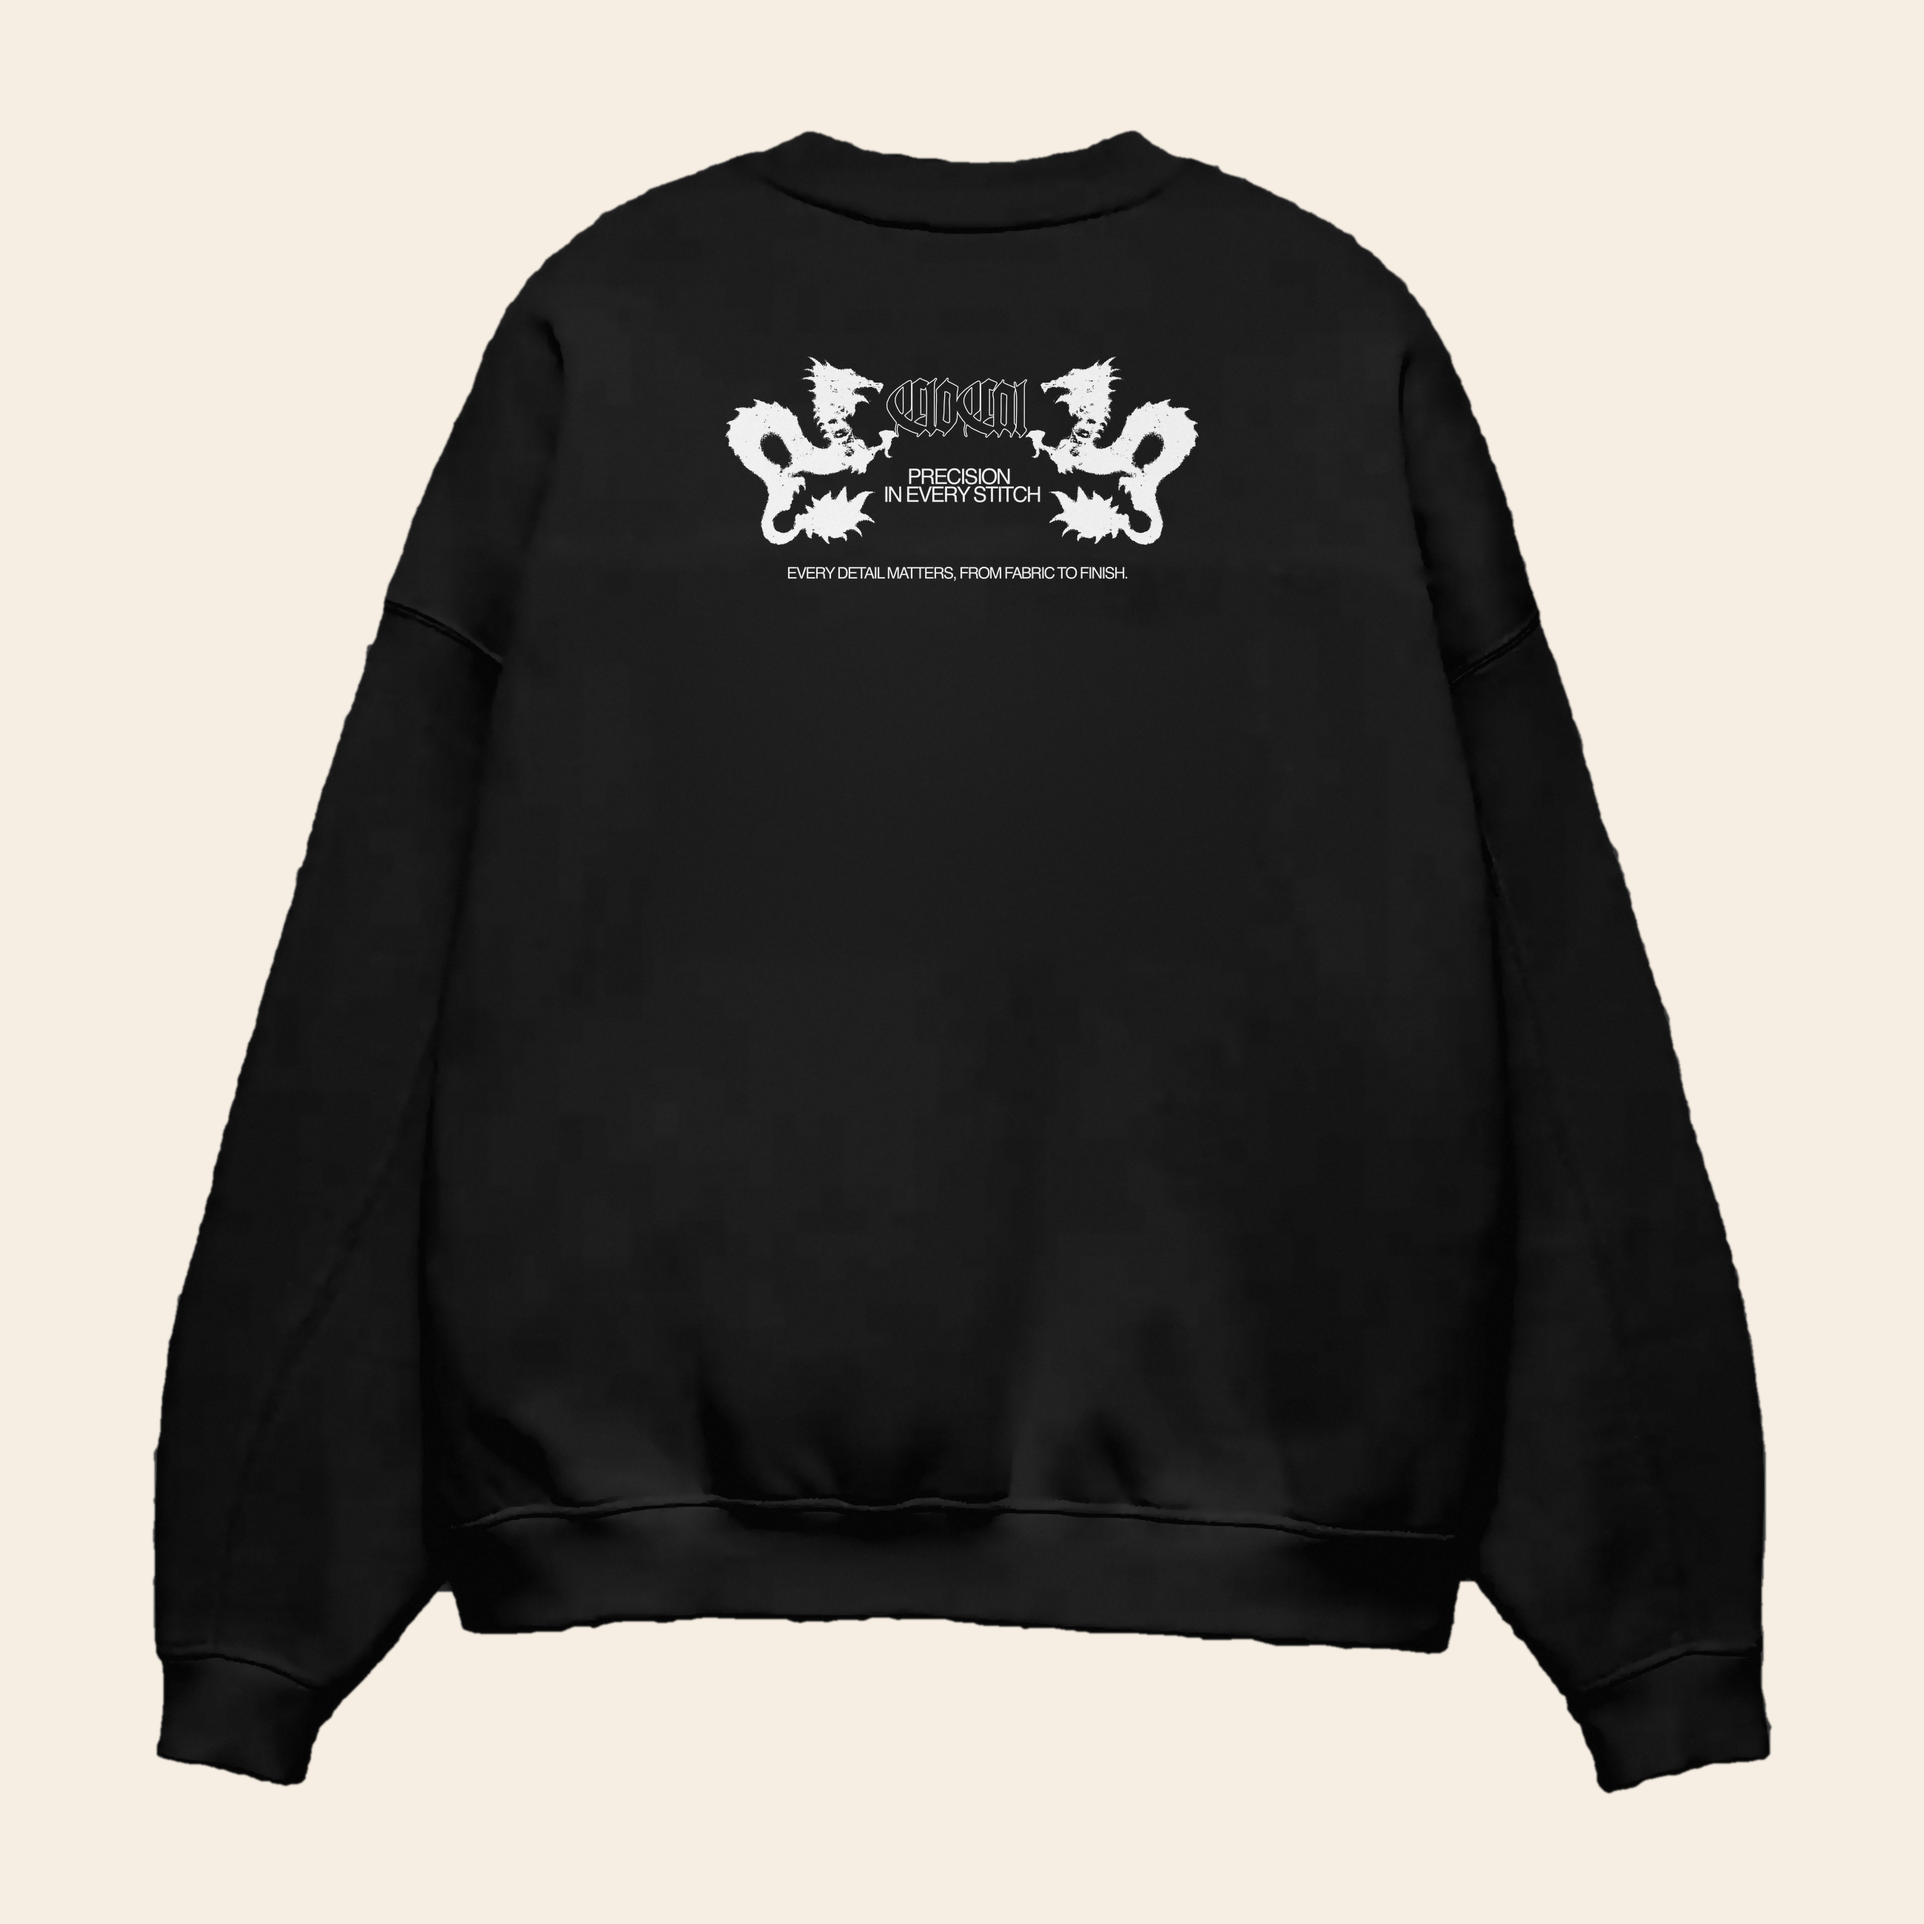
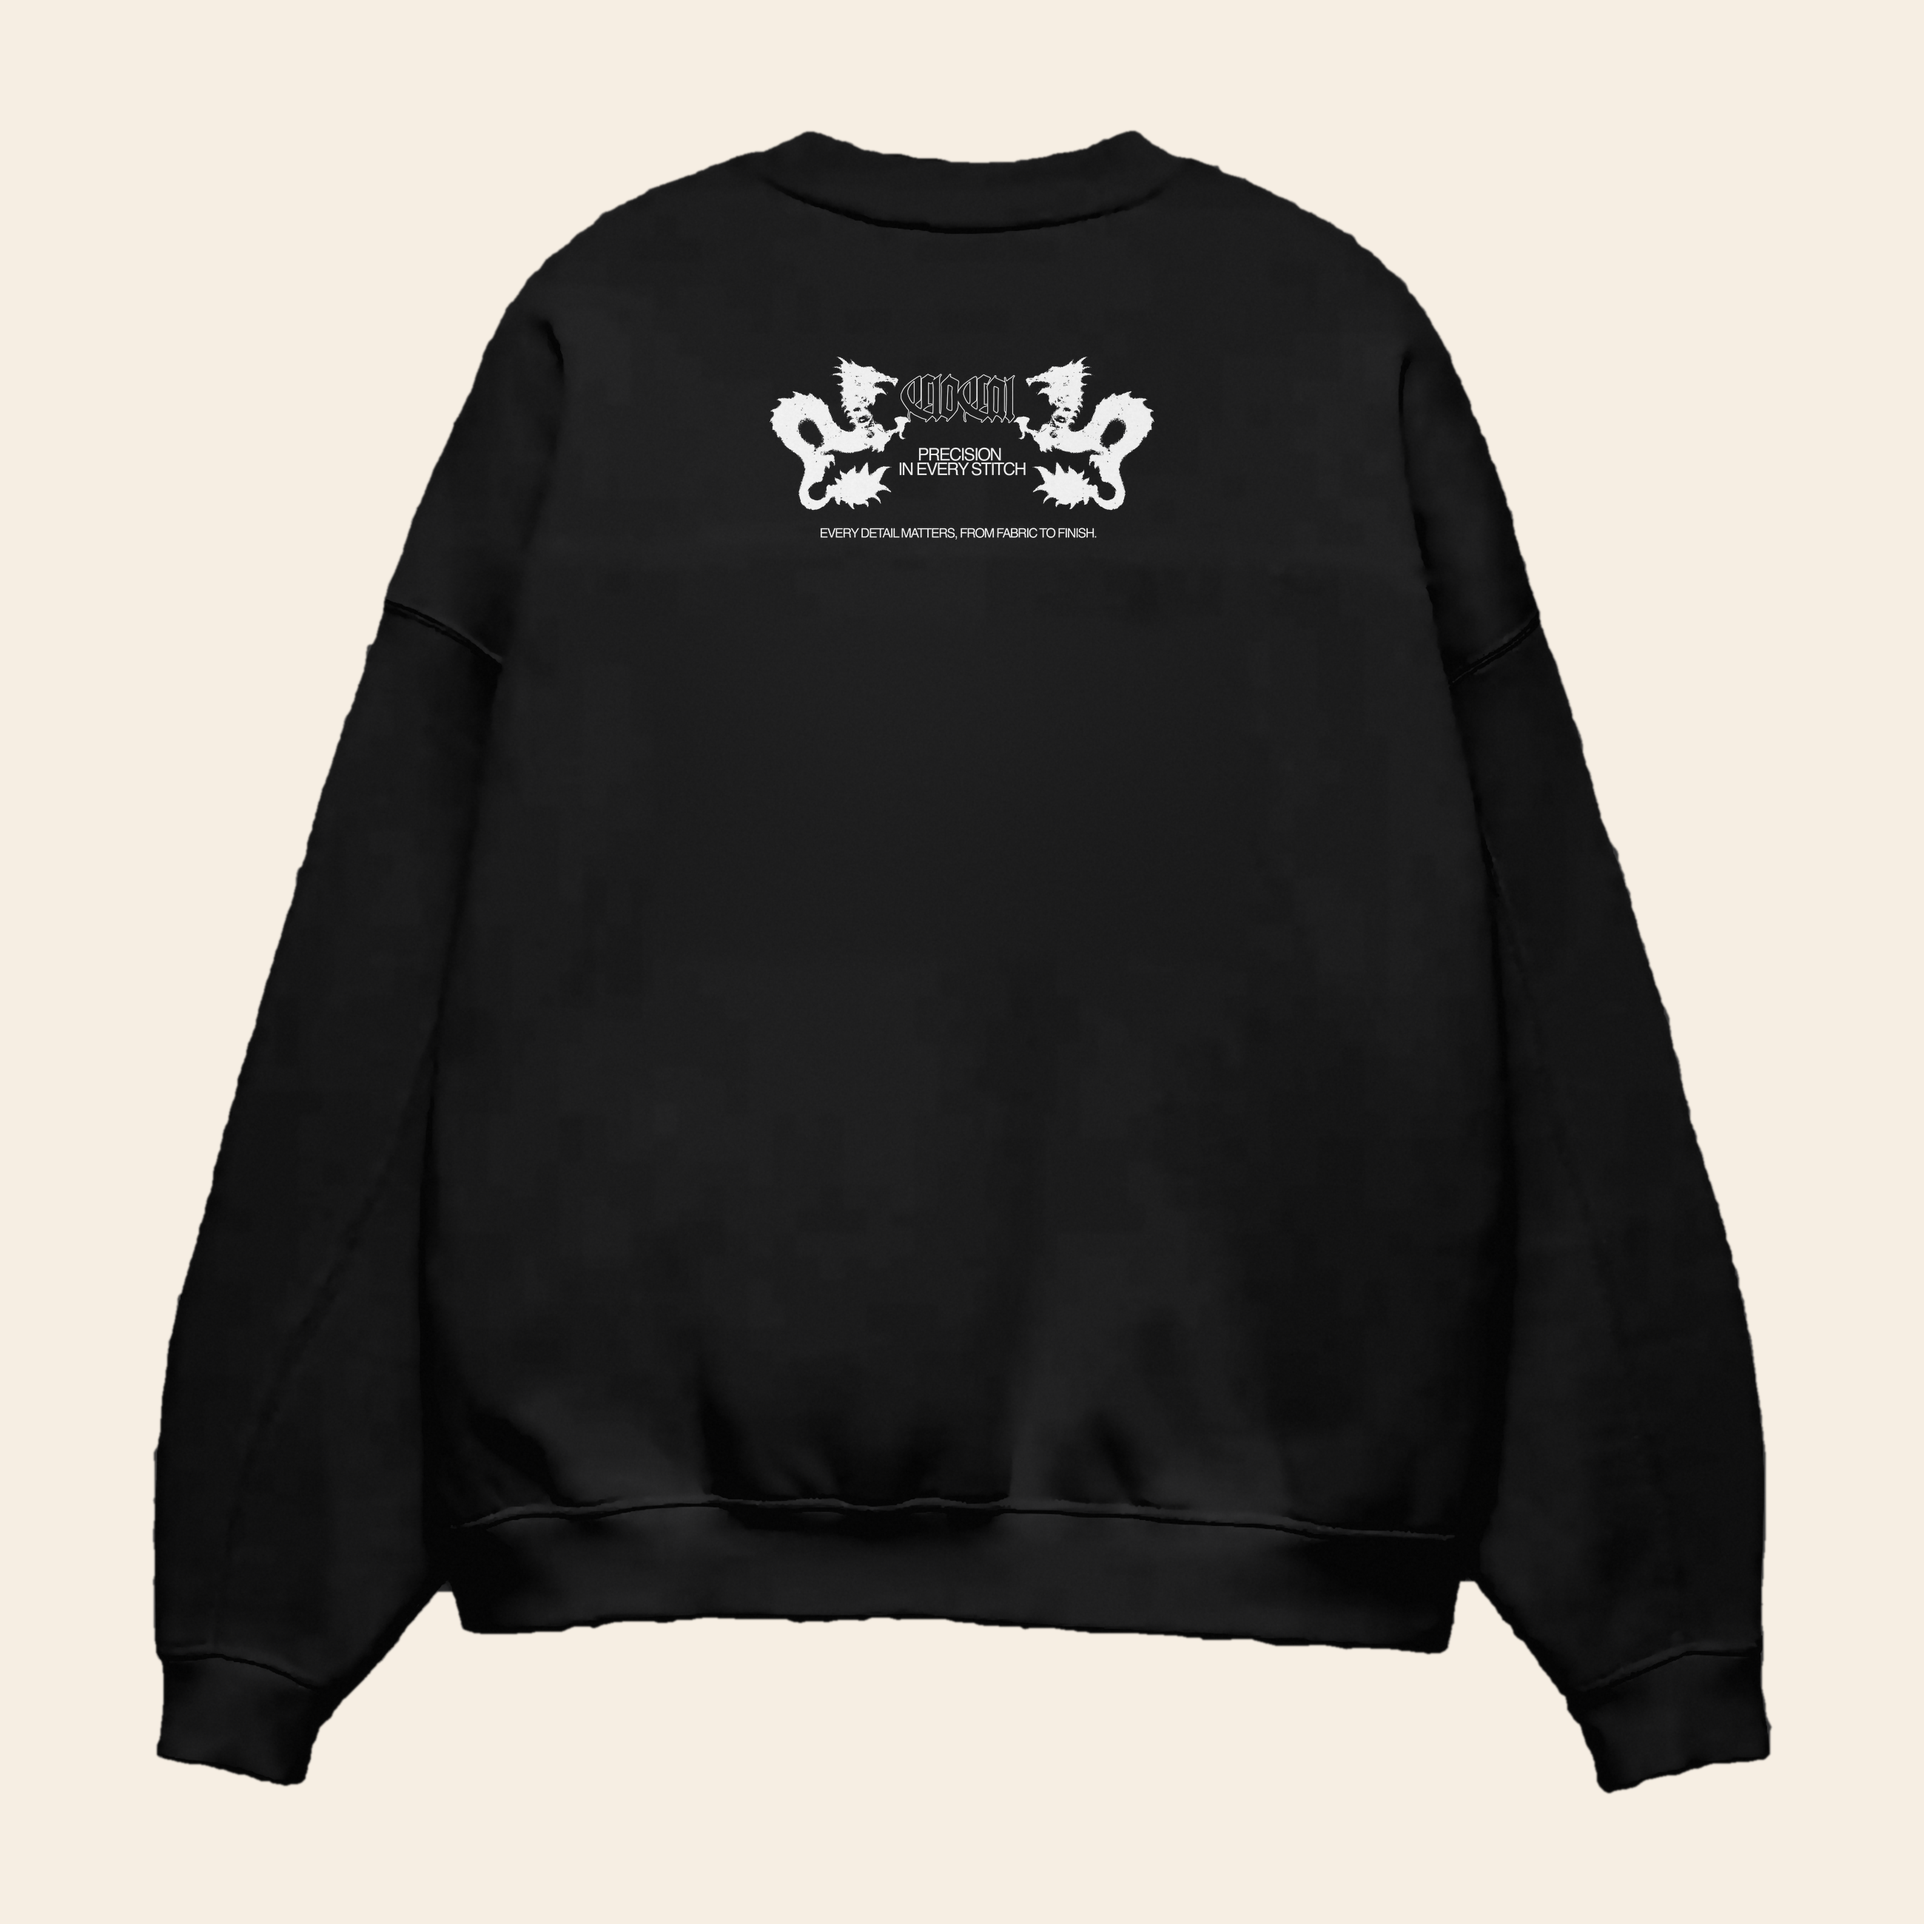
Shrink back print on back mockup
Claude-Session: https://claude.ai/code/session_0134z9woteaCD6XRmPMXin1q

Changed region(s): [[0.3738, 0.1869, 0.6231, 0.3115]]

diff --git a/clocal-black-dragon-ads/size-chart/make_mockup.py b/clocal-black-dragon-ads/size-chart/make_mockup.py
@@ -19,7 +19,7 @@ from PIL import Image
 A = 'assets/'
 K = 2                              # work at 2x the reference resolution
 VIEW = os.environ.get('VIEW', 'front')
-BACK_W, BACK_TOP = 320, 560        # back print width / top edge (reference px)
+BACK_W, BACK_TOP = 260, 560        # back print width / top edge (reference px)
 # Placement (reference px, 1280x1920). Tunable from the command line for iteration.
 ART_SCALE = float(sys.argv[1]) if len(sys.argv) > 1 else 1.45   # px per unit of an 800-unit artwork
 ART_X = float(sys.argv[2]) if len(sys.argv) > 2 else -391        # artwork origin
